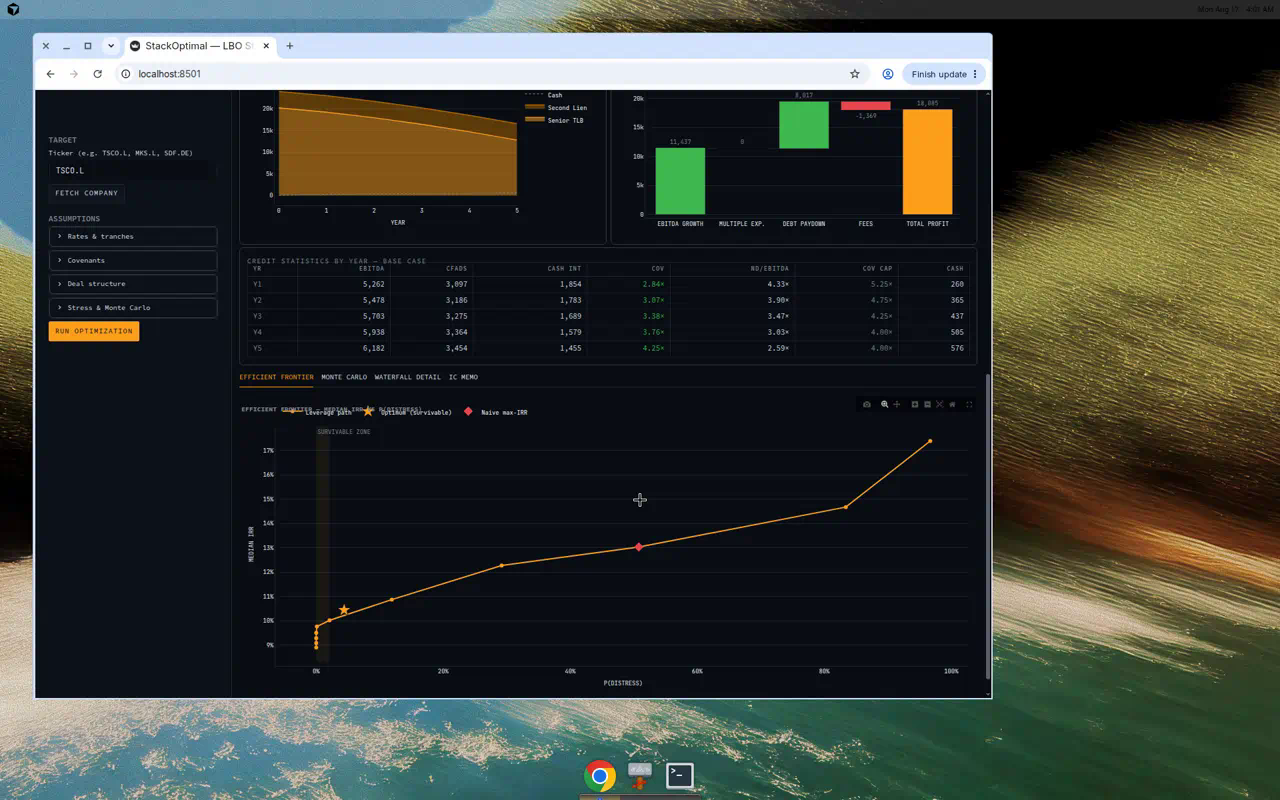
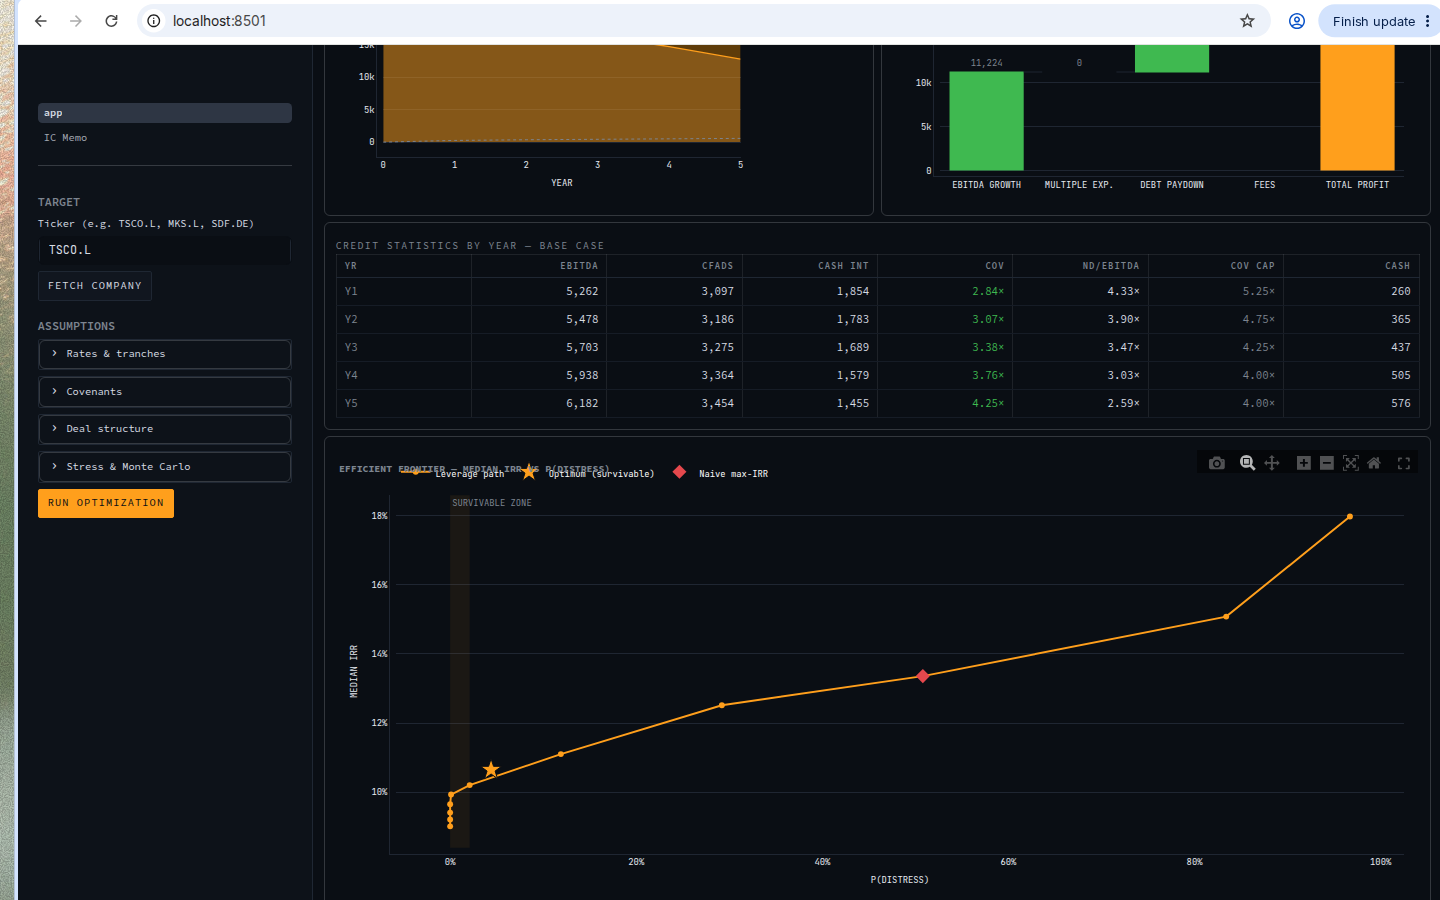
fix: cross-version plotly_chart compatibility, spacing polish, plainer copy
- use_container_width=True everywhere: width= falls into **kwargs on
  Streamlit <=1.50 and shows an in-browser deprecation banner per chart
- more padding in metric cells/tables, thinner heatmap tick labels,
  recommendation split into two lines
- trim flourishy wording in README/WALKTHROUGH/memo; keep defined,
  necessary terms only
- sync TSCO.L case-study numbers to current market data

diff --git a/app.py b/app.py
@@ -175,7 +175,7 @@ def heatmap_tearsheet(opt: OptimizationResult) -> go.Figure:
     fig = go.Figure(
         go.Heatmap(
             z=z,
-            x=[f"{lv:.2f}" for lv in levs],
+            x=levs,  # numeric axis: lets dtick thin the tick labels
             y=[f"{mx:.0%}" for mx in mixes],
             text=cell,
             texttemplate="%{text}",
@@ -210,8 +210,12 @@ def heatmap_tearsheet(opt: OptimizationResult) -> go.Figure:
             len=0.92,
         )
     )
+    # Label every 1.0x tick, not every 0.25x grid point — 21 labels read as noise.
     fig.update_xaxes(
-        title=dict(text="TOTAL LEVERAGE (× EBITDA)", font=dict(size=9)), tickfont=dict(size=8)
+        title=dict(text="TOTAL LEVERAGE (× EBITDA)", font=dict(size=9)),
+        tickfont=dict(size=8),
+        dtick=1.0,
+        tickformat=".1f",
     )
     fig.update_yaxes(title=dict(text="SENIOR MIX", font=dict(size=9)), tickfont=dict(size=8))
     return fig
@@ -741,19 +745,19 @@ def main() -> None:
     junior_turns = o.leverage - senior_turns
 
     # ---------------- Tearsheet ----------------
-    rec = (
+    st.markdown(
         f'<div class="rec-line">OPTIMAL STRUCTURE — <b>{o.leverage:.2f}×</b> TOTAL LEVERAGE · '
         f"{senior_turns:.1f}/{junior_turns:.1f} SR/JR · IRR <b>{fpct(base.irr)}</b> · MOIC "
         f"<b>{fmult(base.moic)}</b> · SURVIVES STRESS "
-        f"(−{assumptions.stress_growth_haircut:.0%} GROWTH, −{assumptions.stress_exit_multiple_shock:.1f}× EXIT)"
+        f"(−{assumptions.stress_growth_haircut:.0%} GROWTH, −{assumptions.stress_exit_multiple_shock:.1f}× EXIT)</div>",
+        unsafe_allow_html=True,
     )
     if opt.naive is not None and opt.naive_gap_irr is not None and opt.naive_gap_irr > 1e-9:
-        rec += (
-            f' &nbsp;&nbsp;<span class="warn">▲ NAIVE {opt.naive.leverage:.2f}× @ '
-            f"{fpct(opt.naive.base.irr)} FAILS STRESS — SURVIVABILITY COST {fpct(opt.naive_gap_irr)}</span>"
+        st.markdown(
+            f'<div class="rec-line"><span class="warn">▲ NAIVE MAX-IRR {opt.naive.leverage:.2f}× @ '
+            f"{fpct(opt.naive.base.irr)} FAILS STRESS — SURVIVABILITY COST {fpct(opt.naive_gap_irr)}</span></div>",
+            unsafe_allow_html=True,
         )
-    rec += "</div>"
-    st.markdown(rec, unsafe_allow_html=True)
     if opt.on_boundary:
         st.info(f"GRID-BOUNDARY DISCLOSURE — {opt.boundary_note}")
 
@@ -797,11 +801,12 @@ def main() -> None:
     main_col, side_col = st.columns([2.1, 1.0])
     with main_col:
         with st.container(border=True):
-            st.plotly_chart(heatmap_tearsheet(opt), width="stretch")
+            st.plotly_chart(heatmap_tearsheet(opt), use_container_width=True)
     with side_col:
         with st.container(border=True):
             st.plotly_chart(
-                cap_stack_chart(o.stack, base.entry["equity"], company.currency), width="stretch"
+                cap_stack_chart(o.stack, base.entry["equity"], company.currency),
+                use_container_width=True,
             )
             st.markdown('<div class="panel-title">Sources &amp; Uses</div>', unsafe_allow_html=True)
             st.markdown(
@@ -811,10 +816,10 @@ def main() -> None:
     low_left, low_right = st.columns(2)
     with low_left:
         with st.container(border=True):
-            st.plotly_chart(paydown_chart(base.yearly, o.stack), width="stretch")
+            st.plotly_chart(paydown_chart(base.yearly, o.stack), use_container_width=True)
     with low_right:
         with st.container(border=True):
-            st.plotly_chart(attribution_waterfall(base.attribution), width="stretch")
+            st.plotly_chart(attribution_waterfall(base.attribution), use_container_width=True)
 
     with st.container(border=True):
         st.markdown(
@@ -831,7 +836,7 @@ def main() -> None:
             frontier_chart(
                 res["frontier"], res["opt_mc"], res["naive_mc"], _survivable_boundary(opt, res)
             ),
-            width="stretch",
+            use_container_width=True,
         )
         st.caption(
             f"Frontier: {FRONTIER_MC_DRAWS:,} MC draws per leverage level at the optimum's senior mix; "
@@ -850,7 +855,7 @@ def main() -> None:
     mc_left, mc_right = st.columns([1.6, 1.0])
     with mc_left:
         with st.container(border=True):
-            st.plotly_chart(mc_histogram(mc), width="stretch")
+            st.plotly_chart(mc_histogram(mc), use_container_width=True)
     with mc_right:
         stress = o.stress
         comp_rows = [
@@ -916,7 +921,7 @@ def main() -> None:
             f" @ {fpct(assumptions.base_rate, 2)} BASE &nbsp;·&nbsp; IC MEMO ON ITS OWN PAGE (SIDEBAR NAV)</div>",
             unsafe_allow_html=True,
         )
-        st.plotly_chart(covenant_chart(base.yearly), width="stretch")
+        st.plotly_chart(covenant_chart(base.yearly), use_container_width=True)
         st.markdown('<div class="panel-title">Full yearly waterfall</div>', unsafe_allow_html=True)
         show = base.yearly.copy()
         money_cols = [
@@ -925,7 +930,7 @@ def main() -> None:
             if c not in ("year", "covenant_breach") and not c.startswith(("coverage", "leverage"))
         ]
         show[money_cols] = show[money_cols].round(1)
-        st.dataframe(show, width="stretch", hide_index=True)
+        st.dataframe(show, use_container_width=True, hide_index=True)
 
 
 def _survivable_boundary(opt: OptimizationResult, res: dict) -> float:

diff --git a/src/terminal.py b/src/terminal.py
@@ -21,8 +21,8 @@ html, body, .stApp, [data-testid="stAppViewContainer"] {
 
 /* density */
 .block-container { padding: 0.6rem 0.9rem 1rem !important; max-width: 100% !important; }
-[data-testid="stVerticalBlock"] { gap: 0.35rem !important; }
-[data-testid="stHorizontalBlock"] { gap: 0.5rem !important; }
+[data-testid="stVerticalBlock"] { gap: 0.5rem !important; }
+[data-testid="stHorizontalBlock"] { gap: 0.6rem !important; }
 [data-testid="stVerticalBlockBorderWrapper"] {
     background-color: #11161f !important; border: 1px solid #1f2733 !important;
     border-radius: 2px !important; box-shadow: none !important; padding: 0.45rem 0.6rem !important;
@@ -60,34 +60,36 @@ hr { border-color: #1f2733 !important; margin: 0.4rem 0 !important; }
 /* metric strip: cells clip (never bleed into neighbours); the strip scrolls
    horizontally rather than overlapping on narrow windows */
 .metric-strip { display: flex; border: 1px solid #1f2733; background: #11161f;
-    border-radius: 2px; margin-bottom: 6px; overflow-x: auto; }
-.metric-cell { flex: 1 0 auto; padding: 7px 12px 6px; border-left: 1px solid #1f2733;
+    border-radius: 2px; margin: 4px 0 10px; overflow-x: auto; }
+.metric-cell { flex: 1 0 auto; padding: 10px 14px 9px; border-left: 1px solid #1f2733;
     min-width: 0; overflow: hidden; }
 .metric-cell:first-child { border-left: none; }
 .metric-label { font-size: 9px; letter-spacing: 0.14em; text-transform: uppercase;
-    color: #7d8590; white-space: nowrap; overflow: hidden; text-overflow: ellipsis; }
-.metric-value { font-size: 18px; font-weight: 700; color: #d7dce3; line-height: 1.25;
+    color: #7d8590; white-space: nowrap; overflow: hidden; text-overflow: ellipsis;
+    margin-bottom: 3px; }
+.metric-value { font-size: 18px; font-weight: 700; color: #d7dce3; line-height: 1.35;
     font-variant-numeric: tabular-nums; white-space: nowrap;
     overflow: hidden; text-overflow: ellipsis; }
 .metric-value.accent { color: #ff9f1c; }
 .metric-value.pos { color: #3fb950; }
 .metric-value.neg { color: #e5484d; }
 .metric-sub { font-size: 9px; color: #7d8590; white-space: nowrap;
-    overflow: hidden; text-overflow: ellipsis; }
+    overflow: hidden; text-overflow: ellipsis; margin-top: 3px; }
 
 .panel-title { font-size: 10px; letter-spacing: 0.14em; text-transform: uppercase;
-    color: #7d8590; margin: 2px 0 0; }
-.rec-line { font-size: 11px; letter-spacing: 0.04em; color: #d7dce3; padding: 2px 0 4px; }
+    color: #7d8590; margin: 4px 0 6px; }
+.rec-line { font-size: 11px; letter-spacing: 0.04em; color: #d7dce3;
+    padding: 2px 0 6px; line-height: 1.7; }
 .rec-line b { color: #ff9f1c; }
 .rec-line .warn { color: #e5484d; }
 
 table.term { width: 100%; border-collapse: collapse; font-size: 11px;
     font-variant-numeric: tabular-nums; table-layout: fixed; }
 table.term th { text-align: right; font-size: 9px; letter-spacing: 0.12em; text-transform: uppercase;
-    color: #7d8590; font-weight: 600; padding: 3px 8px; border-bottom: 1px solid #1f2733;
+    color: #7d8590; font-weight: 600; padding: 4px 8px; border-bottom: 1px solid #1f2733;
     overflow: hidden; text-overflow: ellipsis; }
 table.term th:first-child, table.term td:first-child { text-align: left; }
-table.term td { text-align: right; padding: 3px 8px; border-bottom: 1px solid #161c26;
+table.term td { text-align: right; padding: 5px 8px; border-bottom: 1px solid #161c26;
     color: #d7dce3; overflow: hidden; text-overflow: ellipsis; white-space: nowrap; }
 table.term tr:hover td { background: #161c26; }
 table.term td.neg { color: #e5484d; }
@@ -95,5 +97,5 @@ table.term td.pos { color: #3fb950; }
 table.term td.accent { color: #ff9f1c; }
 table.term td.muted { color: #7d8590; }
 table.term.compact { font-size: 10px; }
-table.term.compact th, table.term.compact td { padding: 3px 5px; }
+table.term.compact th, table.term.compact td { padding: 4px 6px; }
 """

diff --git a/src/memo.py b/src/memo.py
@@ -1,11 +1,9 @@
 """Investment-committee memo generator.
 
-Turns the optimizer and Monte Carlo outputs into a two-page markdown memo in
-the register an IC actually reads: every number traced to a model output, the
-downside taken as seriously as the upside, and a recommendation that follows
-from the analysis rather than preceding it. If no admissible structure exists
-the memo says so plainly and names the binding constraint — a memo that
-recommends nothing is sometimes the correct memo.
+Turns the optimizer and Monte Carlo outputs into a two-page markdown memo:
+every number traced to a model output, the downside taken as seriously as the
+upside, and a recommendation that follows from the analysis. If no admissible
+structure exists the memo says so and names the binding constraint.
 """
 
 from __future__ import annotations
@@ -177,7 +175,7 @@ Value creation of {cur} {_m(at['total_profit'])}m decomposes as:
 | Debt paydown & cash build | {_m(at['debt_paydown'])} |
 | Fees | {_m(at['fees'])} |
 
-Returns are earned the honest way — growth and deleveraging, not multiple arbitrage.
+No multiple expansion is assumed, so all profit comes from growth and deleveraging.
 
 ## 5. Downside analysis
 
@@ -205,8 +203,8 @@ net-leverage cushion **{min_lev_headroom:.2f}x** over the hold.
 
 Proceed on the recommended structure: {o.leverage:.2f}x at {o.mix:.0%} senior mix. It is the highest-IRR
 structure that remains covenant-compliant in every year of the base case AND survives the stressed downside
-with the equity intact. Leverage beyond this buys basis points of IRR at the cost of survivability — a trade
-this committee should decline.
+with the equity intact. Additional leverage beyond this point adds little IRR and fails the downside test;
+we do not recommend it.
 """
 
 

diff --git a/src/model.py b/src/model.py
@@ -422,8 +422,8 @@ def run_stress(
     """Run the downside case. A structure SURVIVES iff the stressed run stays
     feasible (no covenant breach, no cash shortfall) AND the equity is not
     wiped at the stressed exit. Survival — not stressed IRR — is the bar,
-    matching how an IC underwrites downside: 'do we get our money back and
-    keep the keys?', not 'what do we make in a recession?'."""
+    matching how an IC underwrites downside: the question is whether the
+    equity survives with the company intact, not what it earns in a recession."""
     result = run_lbo(company, a, stack, stress_case(company, a))
     survives = result.feasible and not result.equity_wiped
     return result, survives

diff --git a/src/optimizer.py b/src/optimizer.py
@@ -15,7 +15,7 @@ spilling into junior tranches). A structure is ADMISSIBLE iff it is feasible
 in the base case AND survives the stressed downside. The optimizer reports
 the admissible structure with the highest base-case IRR — and, separately,
 the naive unconstrained max-IRR structure, because the gap between the two
-is the headline insight: leverage you cannot survive is not leverage you own.
+is the headline insight of the tool.
 """
 
 from __future__ import annotations

diff --git a/README.md b/README.md
@@ -24,20 +24,19 @@ the efficient frontier ([docs/img/frontier.png](docs/img/frontier.png)).*
 
 ## Why this exists
 
-I kept hearing the same claim in PE interviews and reading: that returns come from
-"buying right, improving operations, and selling well" — with the capital structure
-treated as plumbing. But the structure *is* a design choice with its own return
-stream: every turn of leverage mechanically amplifies IRR, right up to the point
-where covenants, cash adequacy, and downside fragility take the company away from
-you. I wanted to know how much of the spread between a good deal and a blown-up deal
-is decided at the financing table, before anyone touches operations.
+PE returns are usually explained as "buy well, improve the business, sell well" —
+with the debt structure treated as an afterthought. But the structure is a design
+choice with its own effect on returns: each extra turn of leverage raises IRR
+mechanically, right up to the point where covenants or a bad year hand the company
+to the lenders. I wanted to measure how much of the difference between a good deal
+and a failed one is decided by the financing, before operations enter the picture.
 
-So I built the tool I wanted to interrogate: give it a ticker, and it searches the
-whole leverage × tranche-mix space, prices each structure through a year-by-year
-debt waterfall, stress-tests it against a recession case, and shows you the gap
-between the structure that maximizes headline IRR and the structure that survives.
-That gap — usually smaller than people expect, and occasionally fatal — is the
-interesting number.
+So I built a tool to test it. Give it a ticker and it searches the leverage ×
+tranche-mix space, runs each structure through a year-by-year debt model,
+stress-tests it against a recession case, and shows the gap between the structure
+with the highest headline IRR and the structure that survives. That gap is usually
+smaller than people expect — and occasionally it is the difference between keeping
+the company and losing it.
 
 ## What it does
 
@@ -81,13 +80,13 @@ case *and* survives the stressed downside (−20% growth, a one-off −10% EBITD
 −1.0× exit multiple) with the equity intact.
 
 **Search method — grid scan, deliberately.** The debt waterfall makes the objective
-non-convex and path-dependent — covenant tests kink the feasible region, tranche-cap
-boundaries kink the cost of funds, and the cash sweep switches the mapping from this
-year's free cash flow to next year's interest bill. Gradient methods on such a
-surface silently converge to local optima and say nothing about the surrounding
-terrain. A transparent grid scan finds the global optimum over the discretized
-space, costs milliseconds per evaluation, and yields the full risk-return surface as
-a free by-product.
+non-convex and path-dependent: covenants cut whole regions out of the feasible set,
+tranche caps make each additional turn of debt more expensive than the last, and the
+cash sweep means this year's paydown changes next year's interest bill. Gradient
+methods on a surface like that can settle on local optima and say nothing about the
+rest of the space. A grid scan finds the global optimum over the discretized space,
+costs milliseconds per evaluation, and produces the full risk-return surface as a
+by-product.
 
 **Honest limitations of the approach:** the grid discretizes a continuous space, so
 the true optimum can sit between grid points (the tool flags boundary optima rather
@@ -98,19 +97,19 @@ objective — a lender or an LP would weight the constraints differently.
 ## Example result — Tesco plc (TSCO.L)
 
 Live fundamentals at capture: EBITDA £5,054mm, revenue £73.7bn, market EV/EBITDA
-9.1×. Entry at 10.1× (market + 1.0× premium) → EV £51,263mm.
+9.0×. Entry at 10.0× (market + 1.0× premium) → EV £50,308mm.
 
 | Structure | Leverage | Mix | Base IRR | MOIC | Survives stress? |
 |---|---|---|---|---|---|
-| **Optimum (survivable)** | **4.75×** | 100% senior | **10.3%** | **1.63×** | **Yes** |
-| Naive max-IRR | 6.00× | 100% senior | 10.8% | 1.72× | **No** — coverage breach, year 1 |
+| **Optimum (survivable)** | **4.75×** | 100% senior | **10.5%** | **1.65×** | **Yes** |
+| Naive max-IRR | 6.00× | 100% senior | 11.1% | 1.69× | **No** — coverage breach, year 1 |
 
-The before/after is the money shot: unconstrained IRR-maximization picks 6.00× and
-breaches its interest-coverage covenant in the first stressed year (1.85× vs the
-2.0× minimum). The survivable optimum gives up just **0.5pp of IRR** to keep the
-company. At the optimum: Monte Carlo median IRR 10.4% (P5/P95 2.5%/18.3%),
-P(distress) 4.4%, and the £18.1bn equity profit decomposes into £11.4bn EBITDA
-growth + £8.0bn debt paydown + £0 multiple expansion − £1.4bn fees.
+The comparison is the point of the tool: unconstrained IRR-maximization picks 6.00×
+and breaches its interest-coverage covenant in the first stressed year (1.85× vs the
+2.0× minimum). The survivable optimum gives up **0.6pp of IRR** to avoid that. At
+the optimum: Monte Carlo median IRR 10.6% (P5/P95 2.6%/18.6%), P(distress) 4.4%, and
+the £17.9bn equity profit decomposes into £11.2bn EBITDA growth + £8.0bn debt
+paydown + £0 multiple expansion − £1.4bn fees.
 
 *(Figures move with live market data; re-run for the current answer.)*
 
@@ -131,7 +130,10 @@ Convexity demo: `python -m src.debt`. Requires Python 3.11+.
 
 If your shell can't find `pytest`/`streamlit` outside the venv, use the
 `python3 -m …` forms (`python3 -m streamlit run app.py`, `python3 -m pytest`) — they
-work regardless of `PATH`.
+work regardless of `PATH`. If charts show a deprecation banner about "keyword
+arguments", your Streamlit is old — almost always because `python3` is older than
+3.11 (check with `python3 --version`); install a newer Python (`brew install
+python@3.12`), recreate the venv, and reinstall.
 
 ## Design decisions I'd defend in an interview
 

diff --git a/docs/WALKTHROUGH.md b/docs/WALKTHROUGH.md
@@ -26,7 +26,7 @@ run at maximum debt capacity. Three forces create an **interior optimum**:
 The optimizer therefore maximizes base-case IRR **subject to** surviving a
 stressed downside and satisfying every covenant in every year. The headline
 output is the gap between the naive max-IRR structure and the survivable
-optimum: leverage you cannot survive is not leverage you own.
+optimum — how much IRR you give up to own a structure that survives.
 
 ---
 
@@ -211,14 +211,14 @@ risk-return optimization**, not IRR maximization.
 
 Three things to say about it in an interview:
 
-1. **Return is monotone in leverage; survival is not.** Median IRR climbs
-   steadily while distress probability is near-zero — then the distress curve
-   goes vertical once coverage and the leverage covenant start binding across
-   the draw distribution. The skill is stopping before the cliff.
-2. **The naive max-IRR point sits past the cliff edge.** It looks better on
-   every headline metric and loses the company in a recession. The gap between
-   it and the starred optimum — a few tenths of a point of IRR — is the price
-   of survivability, and it is the single most important number in the tool.
+1. **Return rises steadily with leverage; survival does not.** Median IRR
+   climbs while distress probability stays near zero — then distress rises
+   sharply once coverage and the leverage covenant start binding across the
+   draw distribution. The practical conclusion: stop before distress turns up.
+2. **The naive max-IRR point sits past that edge.** It looks better on every
+   headline metric and loses the company in a recession. The gap between it
+   and the starred optimum — a few tenths of a point of IRR — is the price of
+   survivability, and it is the single most important number in the tool.
 3. **The frontier is conditional on survival.** IRR statistics are computed
    over draws that reach exit (wiped equity contributes −100%); distressed
    draws are reported through P(distress), not silently averaged in.
